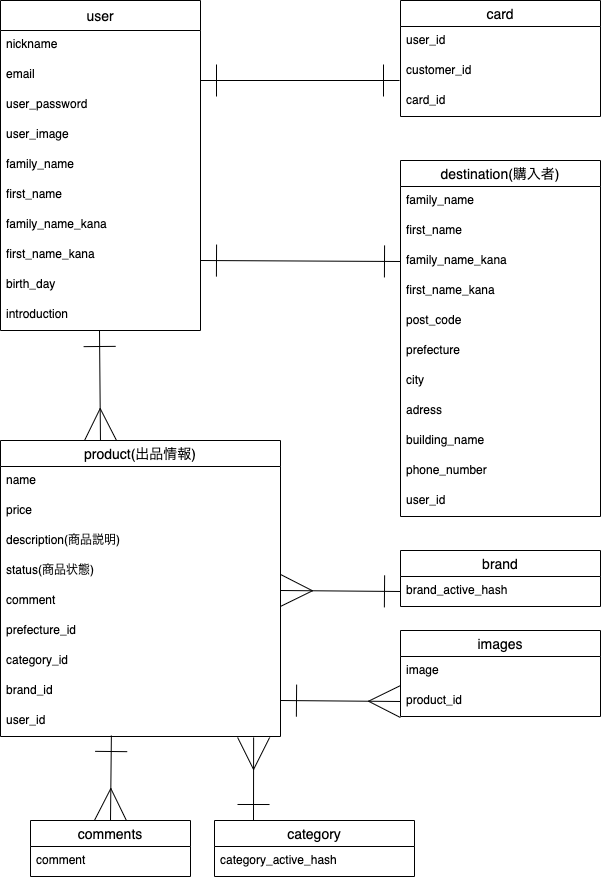
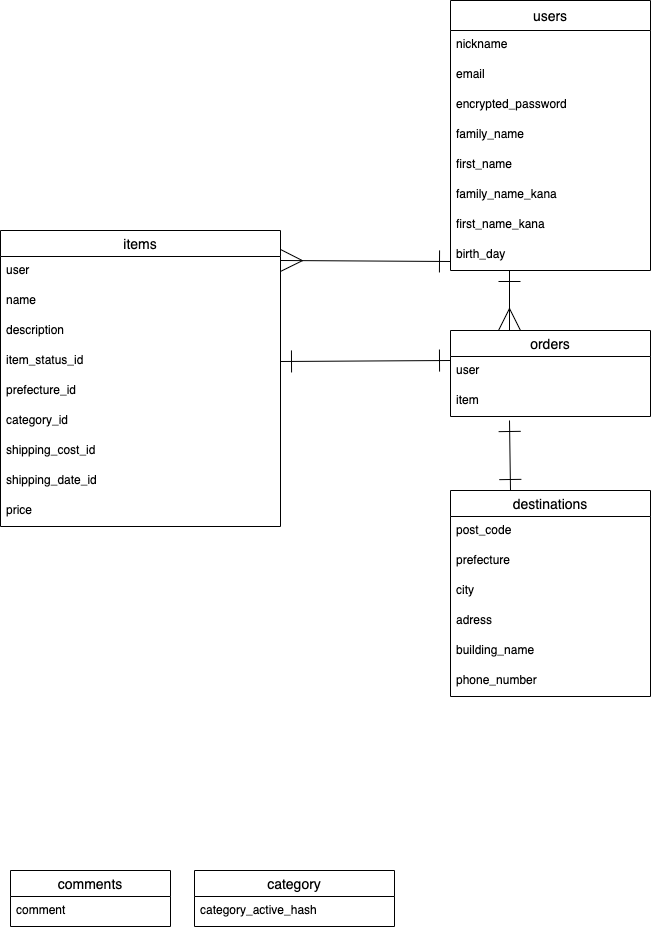
テーブル設計修正

diff --git a/README.md b/README.md
@@ -2,119 +2,65 @@
 
 ## users テーブル
 
-| Column           | Type   | Options     |
-| ---------------- | ------ | ----------- |
-| nickname         | string | null: false |
-| email            | string | null: false |
-| user_password    | string | null: false |
-| user_image       | string |             |
-| family_name      | string | null: false | 
-| first_name       | string | null: false |
-| family_name_kana | string | null: false |
-| first_name_kana  | string | null: false |
-| birth_day        | date   | null: false |
-| introduction     | text   |             |
+| Column             | Type   | Options                              |
+| ------------------ | ------ | ------------------------------------ |
+| nickname           | string | null: false                          |
+| email              | string | null: false, index: { unique: true } |
+| encrypted_password | string | null: false                          |
+| family_name        | string | null: false                          |
+| first_name         | string | null: false                          |
+| family_name_kana   | string | null: false                          |
+| first_name_kana    | string | null: false                          |
+| birth_day          | date   | null: false                          |
 
 ### Association
 
-has_many :products dependent: :destroy
-belongs_to :destination dependent: :destroy
-belongs_to :card dependent: :destroy
+has_many :items
+has_many :orders
 
-## destination テーブル
+## destinations テーブル
 
-| Column           | Type   | Options                        |
-| ---------------- | ------ | ------------------------------ |
-| user_id          | integer| null: false, foreign_key: true |
-| family_name      | string | null: false                    | 
-| first_name       | string | null: false                    |
-| family_name_kana | string | null: false                    |
-| first_name_kana  | string | null: false                    |
-| post_code        | string | null: false                    |
-| prefecture       | string | null: false                    |
-| city             | string | null: false                    |
-| adress           | string | null: false                    |
-| building_name    | string |                                |
-| phone_number     | string |                                |
+| Column           | Type   | Options                               |
+| ---------------- | ------ | ------------------------------------- |
+| post_code        | string | null: false                           |
+| prefecture       | integer| null: false, :item, foreign_key: true |
+| city             | string | null: false                           |
+| adress           | string | null: false                           |
+| building_name    | string |                                       |
+| phone_number     | string | null: false                           |
+
+### Association
+
+belongs_to :order
+
+## items テーブル
+
+| Column           | Type       | Options                      |
+| ---------------- | ---------- | ---------------------------- |
+| user             | references | null:false foreign_key: true |
+| name             | string     | null: false                  |
+| description      | text       | null: false                  |
+| item_status_id   | integer    | null: false                  |
+| prefecture_id    | integer    | null: false                  |
+| category_id      | integer    | null: false                  |
+| shipping_cost_id | integer    | null: false                  |
+| shipping_date_id | integer    | null: false                  |
+| price            | integer    | null: false                  |
 
 ### Association
 
 belongs_to :user
+has_one :order
 
-## card テーブル
+## orders テーブル
 
-| Column           | Type   | Options                        |
-| ---------------- | ------ | ------------------------------ |
-| user_id          | integer| null: false, foreign_key: true |
-| customer_id      | string | null: false                    |
-| card_id          | string | null: false                    |
+| Column           | Type       | Options                      |
+| ---------------- | ---------- | ---------------------------- |
+| user             | references	|null: false, foreign_key: true|
+| item             | references	|null: false, foreign_key: true|
 
 ### Association
 
 belongs_to :user
-
-## category テーブル   
-
-| Column              | Type   | Options                        |
-| ------------------- | ------ | ------------------------------ |
-| category_active_hash| string |                                |
-           categoryはactive_hashを使用。
-
-### Association
-
-has_many :products
-
-### product テーブル
-
-| Column           | Type   | Options                        |
-| ---------------- | ------ | ------------------------------ |
-| name             | string | null: false                    |
-| price            | string | null: false                    | 
-| description      | string | null: false                    |
-| status           | string | null: false                    |
-| comment          | string |                                |
-| prefecture_id    | string | null: false                    |
-| category_id      | integer| null: false, foreign_key: true |
-| brand_id         | integer| null: false, foreign_key: true |
-| user_id          | integer| null: false, foreign_key: true |
-
-### Association
-
-belongs_to :user dependent: :destroy
-belongs_to :category dependent: :destroy
-belongs_to :brand dependent: :destroy
-has_many :images dependent: :destroy
-
-belongs_to_active_hash :prefecture
-
-## images テーブル
-
-| Column           | Type   | Options                        |
-| ---------------- | ------ | ------------------------------ |
-| image            | string | null: false                    |
-| product_id       | integer| null: false, foreign_key: true |
-
-### Association
-
-belongs_to :product
-
-## brand テーブル
-
-| Column           | Type   | Options                        |
-| ---------------- | ------ | ------------------------------ |
-| brand_active_hash| string |                                |
-                 brandはactive_hashを使用。
-
-### Association
-
-has_many :products
-
-## comments テーブル
-
-| Column           | Type   | Options                        |
-| ---------------- | ------ | ------------------------------ |
-| comment          | string |                                |
-
-### Association
-
-belongs_to :product
+belongs_to :item
+has_one :destination
